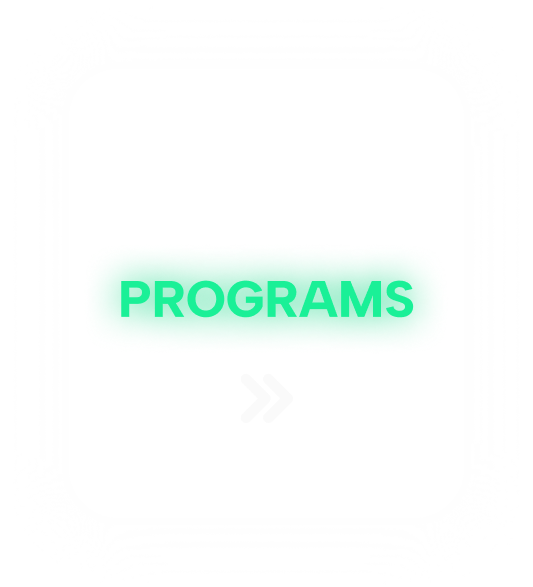
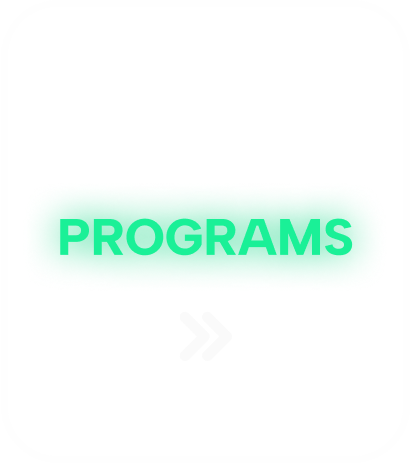
almost finished with the main page

Changed region(s): [[0.1171, 0.4233, 0.878, 0.6048]]

diff --git a/styles.css b/styles.css
@@ -82,7 +82,7 @@ h1{
 }
 
 #materov_img{
-    width: 950px;               
+    width: 870px;               
     margin: 20px auto;       /* Center the image horizontally */
     border-radius: 20px;
     flex: 2;
@@ -111,10 +111,15 @@ h1{
     background: #23235a;     
     border-radius: 10px;
     padding: 12px;
-    box-shadow: 0 2px 8px #0004;
+    /* box-shadow: 0 2px 8px #0004; */
+    box-shadow:
+        0 0 10px rgba(99, 99, 218, 0.8),  /* Soft inner glow */
+        0 0 20px rgba(91, 91, 224, 0.6),  /* Brighter outer glow */
+        0 0 30px rgba(35, 35, 90, 0.4);  /* Faint distant glow */
     display: flex;
     justify-content: center;
     align-items: center;
+
 }
 
 
@@ -163,6 +168,9 @@ h1{
     margin-bottom: 50px;
     justify-content: center; /* Center the content horizontally */
     align-items: center;     /* Center the content vertically */    
+    flex-direction: column; /* Stack rows vertically */
+    gap: 20px; /* Spacing between rows */
+    align-items: center; /* Optional: center rows horizontally */
 }
 
 .program-header{
@@ -170,67 +178,64 @@ h1{
     font-size: 2.5em;
     text-align: center;
 }
-
-/*carousel*/
-.carousel {
-  width: 80%;
-  max-width: 600px;
-  overflow: hidden;
-  position: relative;
-  border-radius: 10px;
+.row-1,
+.row-2 {
+    display: flex;
+    gap: 16px; /* Space between images in the same row */
+    justify-content: center; /* Optional: center images in row */
+}
+.row-1{
+    margin-bottom: 10px;
+}
+.row-2{
+    margin-bottom: 50px;
 }
 
-.slides {
-  display: flex;
-  width: 300%;
-  height: 300px;
+.program-image {
+    width: auto;
+    height: 250px;
+    display: block;
+}
+.program-link {
+    transition: transform 0.3s ease; /* Smooth transition */
+    cursor: pointer; /* Optional: makes it feel interactive */
+}
+
+.program-link:hover {
+    transform: scale(1.1);
+    box-shadow: 0 8px 20px rgba(0, 0, 0, 0.2); /* Adds a soft glow */
+}
+
+
+/*image slides*/
+.image-slide {
+    /* display: flex;
+    flex-direction: row;
+    padding: 0;
+    margin: 0;
+    border: 0; */
+    display: flex;
+    width: 100vw; /* Full viewport width */
+    margin-left: calc(-50vw + 50%); /* Break out of centered container */
+    padding: 0;
 }
 
 .slide {
-  width: 100%;
-  flex-shrink: 0;
-  transition: 0.6s ease-in-out;
+    flex: 1 0 auto;
+    padding: 0;
+    margin: 0;
+    border: 0;
 }
 
 .slide img {
-  width: 100%;
-  height: 100%;
-  object-fit: cover;
+    width: 100%;
+    height: 300px; /* or any fixed height you want */
+    object-fit: cover; /* Ensures image fills the box without distortion */
+    display: block; /* Removes default inline spacing */
+    margin: 0;
+    padding: 0;
+    border: 0;
 }
-
-/* Manual Navigation Buttons */
-.navigation-manual {
-  position: absolute;
-  width: 100%;
-  margin-top: -40px;
-  display: flex;
-  justify-content: center;
-}
-
-.manual-btn {
-  border: 2px solid white;
-  padding: 5px;
-  border-radius: 50%;
-  cursor: pointer;
-  transition: 0.4s;
-  margin: 0 10px;
-}
-
-.manual-btn:hover {
-  background: white;
-}
-
-/* Hide all by default */
-#slide1:checked ~ .s1 {
-  margin-left: 0;
-}
-#slide2:checked ~ .s2 {
-  margin-left: -100%;
-}
-#slide3:checked ~ .s3 {
-  margin-left: -200%;
-}
-
 
 /* Hotbar styles */
 #hotbar {
@@ -312,7 +317,7 @@ footer nav {
     justify-content: center;
     align-items: flex-start;
     gap: 40px; /* space between icons */
-    padding: 16px 0;
+    padding: 10px 15px;
 }
 
 footer nav > div{
@@ -351,4 +356,14 @@ footer nav > div{
     margin: 0 10px;
     transition: transform 0.2s;
     display: block;
+}
+
+
+
+/*missions page*/
+.team-photo {
+    width: 100%;
+    height: auto;
+    border-radius: 10px;
+    margin-top: 20px;
 }

diff --git a/index.html b/index.html
@@ -41,13 +41,13 @@
                             <li><a href="htmlpages/internalcomp.html">Internal Competitions</a></li>
                         </ul>
                     </li>
-                    <li class="dropdown">
+                    <!-- <li class="dropdown">
                         <a href="#">Programs</a>
                         <ul class="dropdown-content">
                             <li><a href="htmlpages/workshops.html">Workshops</a></li>
                             <li><a href="htmlpages/gbm.html">General Body Meetings</a></li>
                         </ul>
-                    </li>
+                    </li> -->
                 </ul>
             </nav>
         </div>
@@ -94,37 +94,25 @@
             
             <div class="program-frames">
                 <div class="row-1">
-                    <img src="assets/Mentorship_frame.png" alt="Mentorship Frame" class="mentorship-frame" />
+                    <img src="assets/Mentorship_frame.png" alt="Mentorship Frame" class="program-image" />
                     <img src="assets/Mentorship_image.png" alt="Mentorship Program Image" class="program-image" />
                 </div>
 
                 <div class="row-2">
-                    <img src="assets/Ex_comp_photo_box.png" alt="Ex Comp Photo" class="ex-comp-photo" />
-                    <img src="assets/Ex_Comp_box.png" alt="Ex Comp Frame" class="ex-comp-frame" />
-                    <img src="assets/Programs_box.png" alt="Programs Box" class="programs-box" />
+                    <img src="assets/Ex_comp_photo_box.png" alt="Ex Comp Photo" class="program-image" />
+                    <img src="assets/Ex_Comp_box.png" alt="Ex Comp Frame" class="program-image" />
+                    <a href="htmlpages/upcoming.html"><img src="assets/Programs_box.png" alt="Programs Box" class="program-image program-link" /></a>
                 </div>
             </div>
         </div>
 
 
-        <div class="carousel">
-            <div class="slides">
-                <input type="radio" name="slide" id="slide1" checked>
-                <input type="radio" name="slide" id="slide2">
-                <input type="radio" name="slide" id="slide3">
-
+        
+            <div class="image-slide">
                 <div class="slide s1"><img src="assets/ic2024.jpeg" alt=""></div>
                 <div class="slide s2"><img src="assets/lab_guys.jpeg" alt=""></div>
                 <div class="slide s3"><img src="assets/sase_collab.JPG" alt=""></div>
             </div>
-
-            <!-- Manual navigation -->
-            <div class="navigation-manual">
-                <label for="slide1" class="manual-btn"></label>
-                <label for="slide2" class="manual-btn"></label>
-                <label for="slide3" class="manual-btn"></label>
-            </div>
-        </div>
     
         <footer>
             <nav>

diff --git a/htmlpages/missions.html b/htmlpages/missions.html
@@ -21,7 +21,7 @@
             <h1>Our Mission</h1>
         </header>
         <P>The Stony Brook Robotics Team (SBRT) at Stony Brook University is a competitive engineering design team which aims to provide its members with access to educational, professional, and social opportunities through various robotics competitions and projects throughout the academic year. We seek to provide the community of dedicated scientists, engineers, and roboticists on our team with a foundational understanding of real-world communication and leadership skills within a professional context.</P>
-        
+        <img src="../assets/teamphoto_flags.png" alt="SBRT Team Photo" class="team-photo" />
     </body>
 </html>
 
